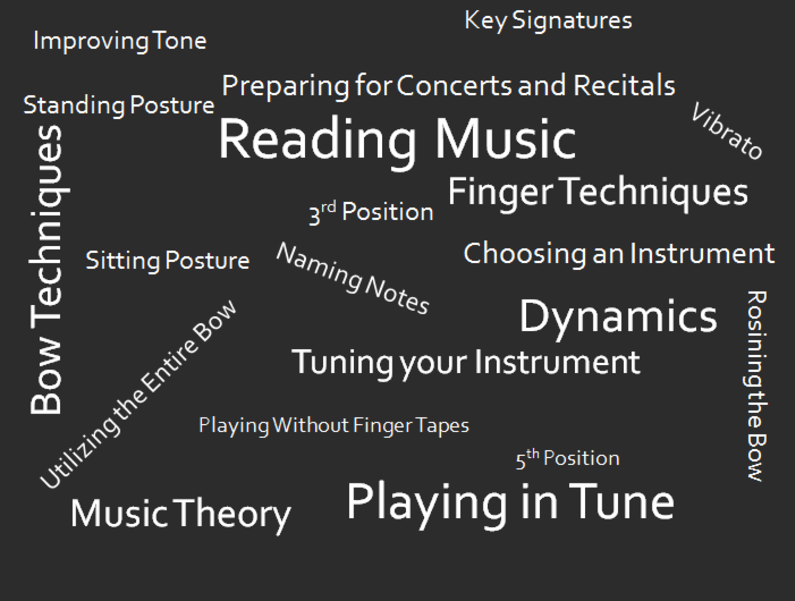
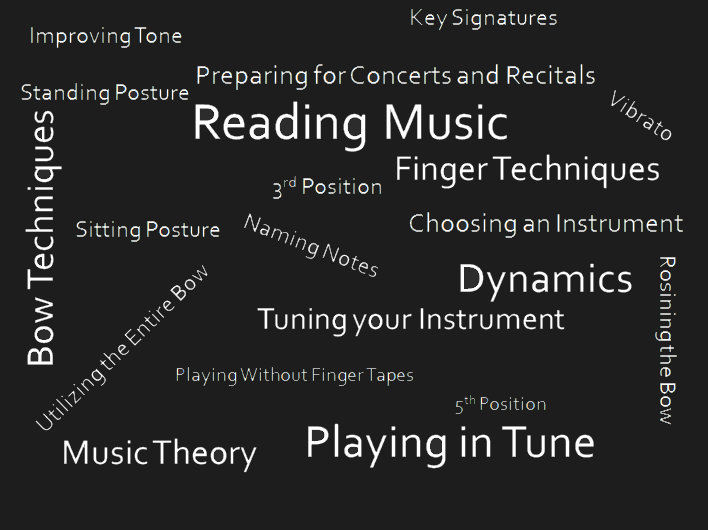
email temp

diff --git a/styles.css b/styles.css
@@ -1,5 +1,5 @@
 body {
-    background-color: #292929;
+    background-color: #1d1d1d;
 }
 h1 {
 	color: white;
